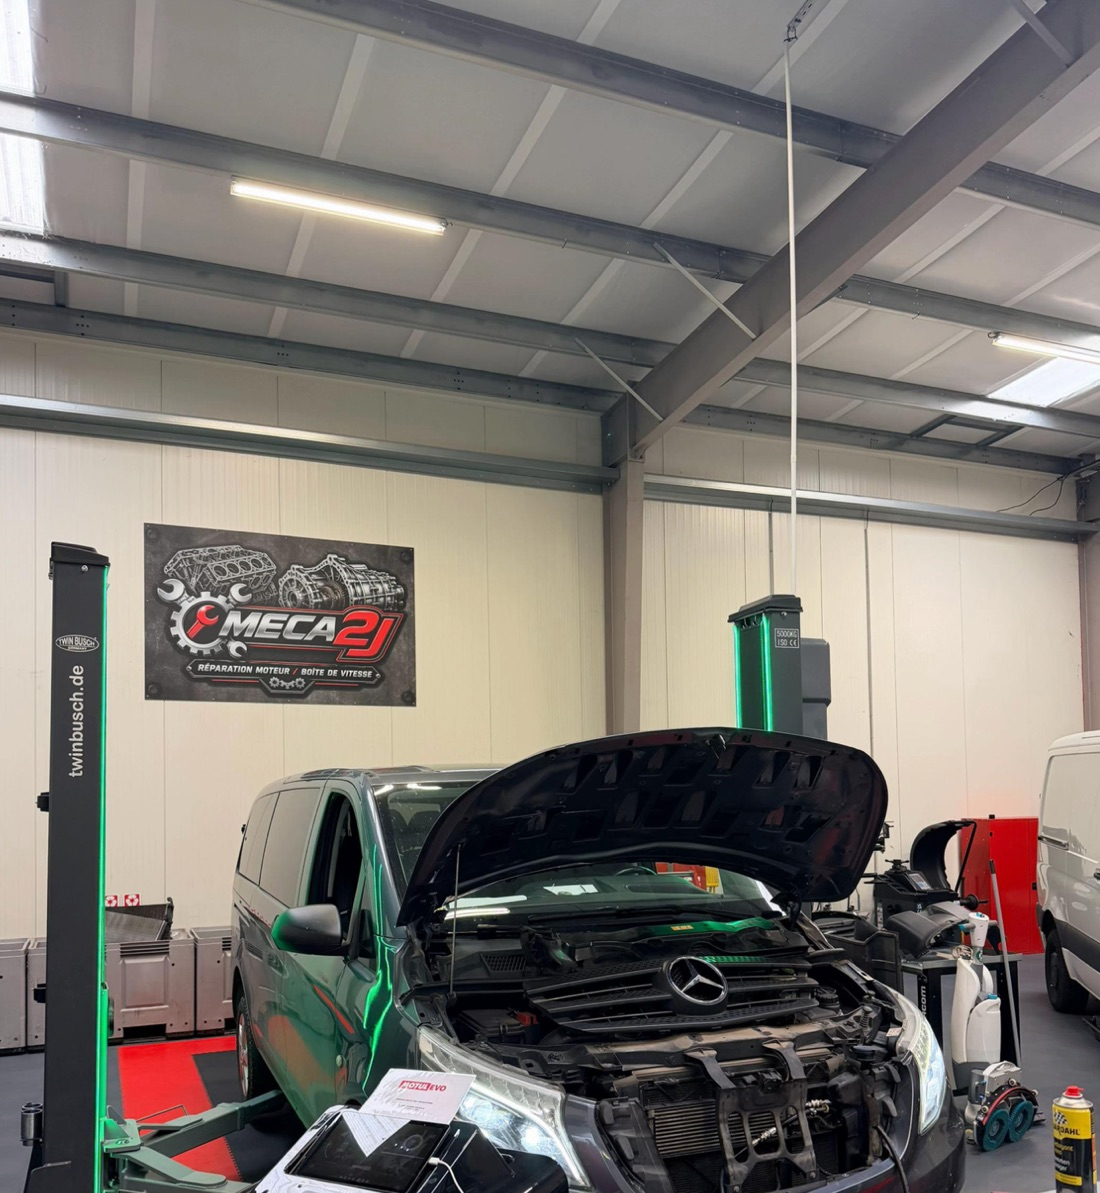
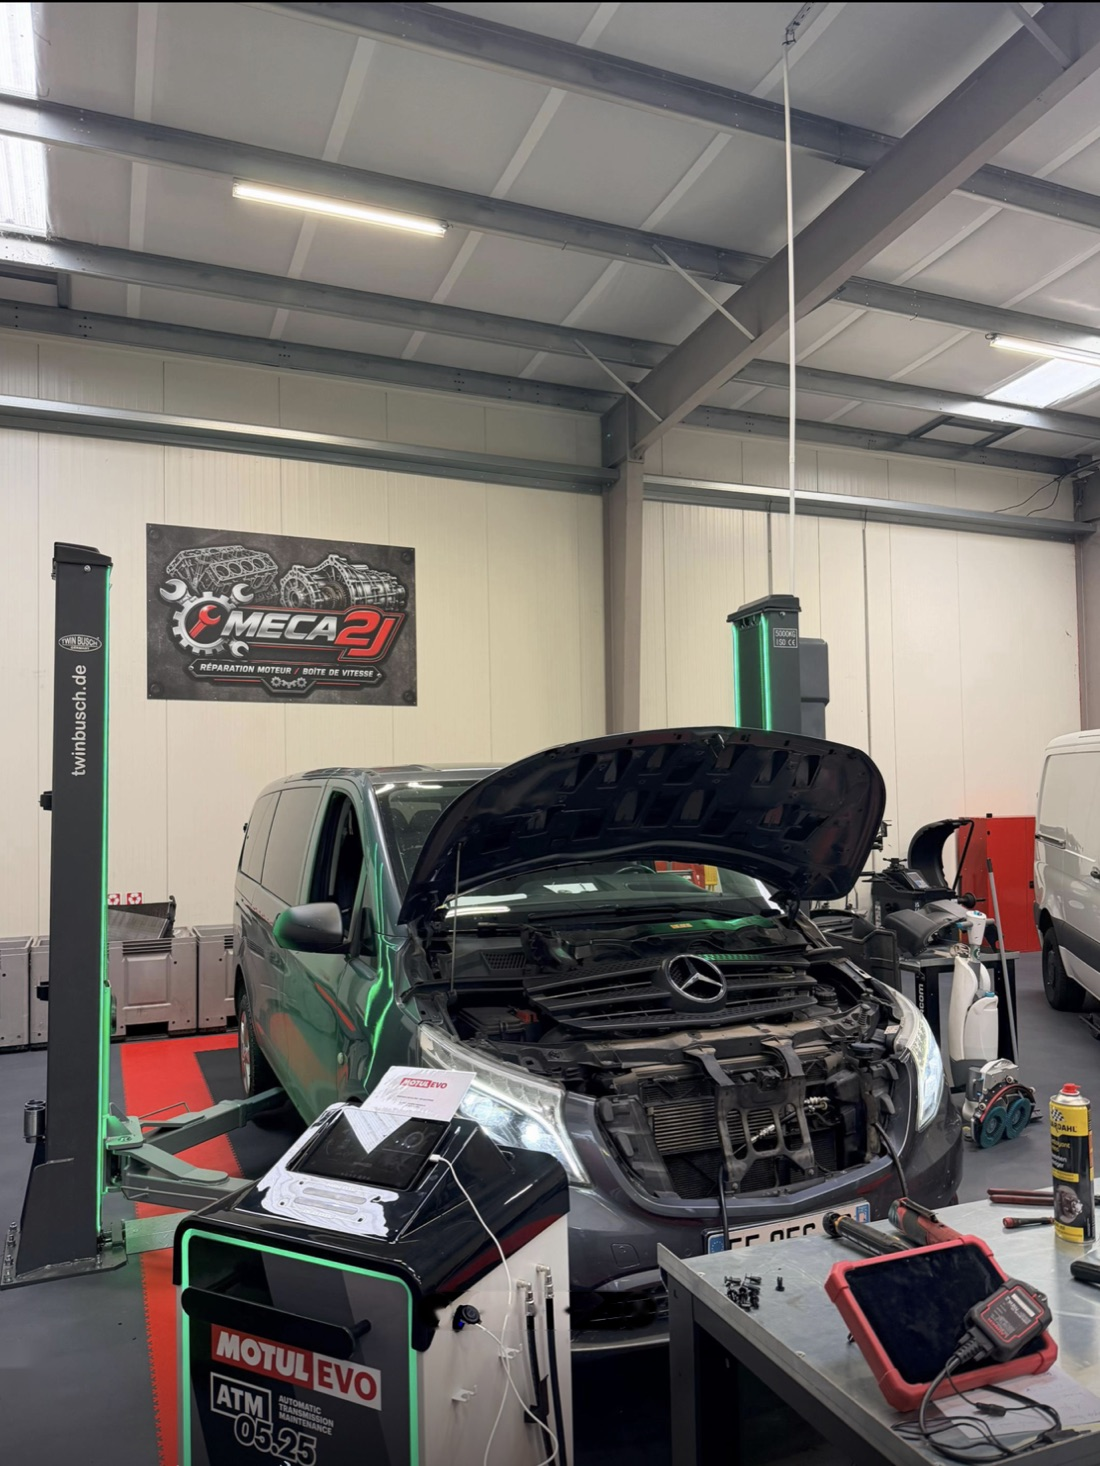
Nouvelle photo Motul EVO, affichée en entier

diff --git a/index.html b/index.html
@@ -125,7 +125,7 @@
         </div>
 
         <div class="vehicles">
-          <img src="assets/boite-auto-motul.jpg" alt="Utilitaire Mercedes en entretien de boîte automatique avec la machine Motul EVO dans l'atelier MECA2J" loading="lazy">
+          <img src="assets/boite-auto-motul.jpg?v=3" alt="Utilitaire Mercedes en entretien de boîte automatique avec la machine Motul EVO dans l'atelier MECA2J" loading="lazy">
           <div>
             <h3>Spécialiste utilitaire</h3>
             <p>Artisans et professionnels, votre utilitaire est votre outil de travail. Nous l'entretenons et le réparons pour limiter son immobilisation.</p>

diff --git a/style.css b/style.css
@@ -182,7 +182,7 @@ a { color: inherit; }
   align-items: center;
   margin-top: 56px;
 }
-.vehicles img { border-radius: var(--radius); aspect-ratio: 1; object-fit: cover; object-position: center bottom; width: 100%; }
+.vehicles img { border-radius: var(--radius); aspect-ratio: 3 / 4; object-fit: cover; object-position: center bottom; width: 100%; }
 .vehicles h3 { font-size: 2rem; }
 .vehicles p { color: var(--muted); }
 .checks { list-style: none; padding: 0; margin: 0; display: grid; gap: 8px; }
